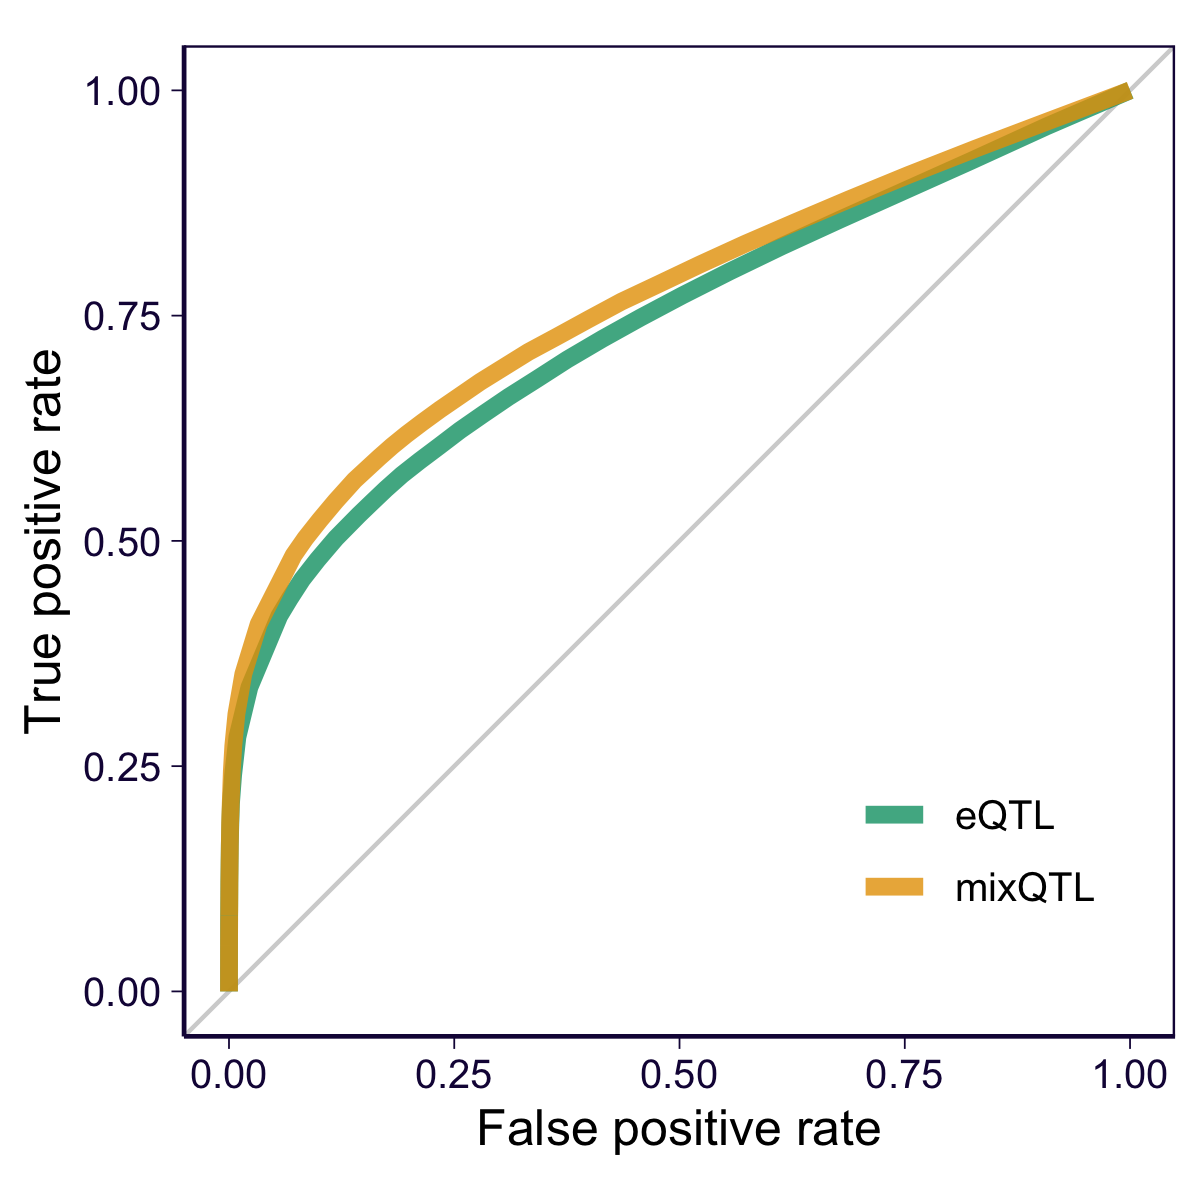
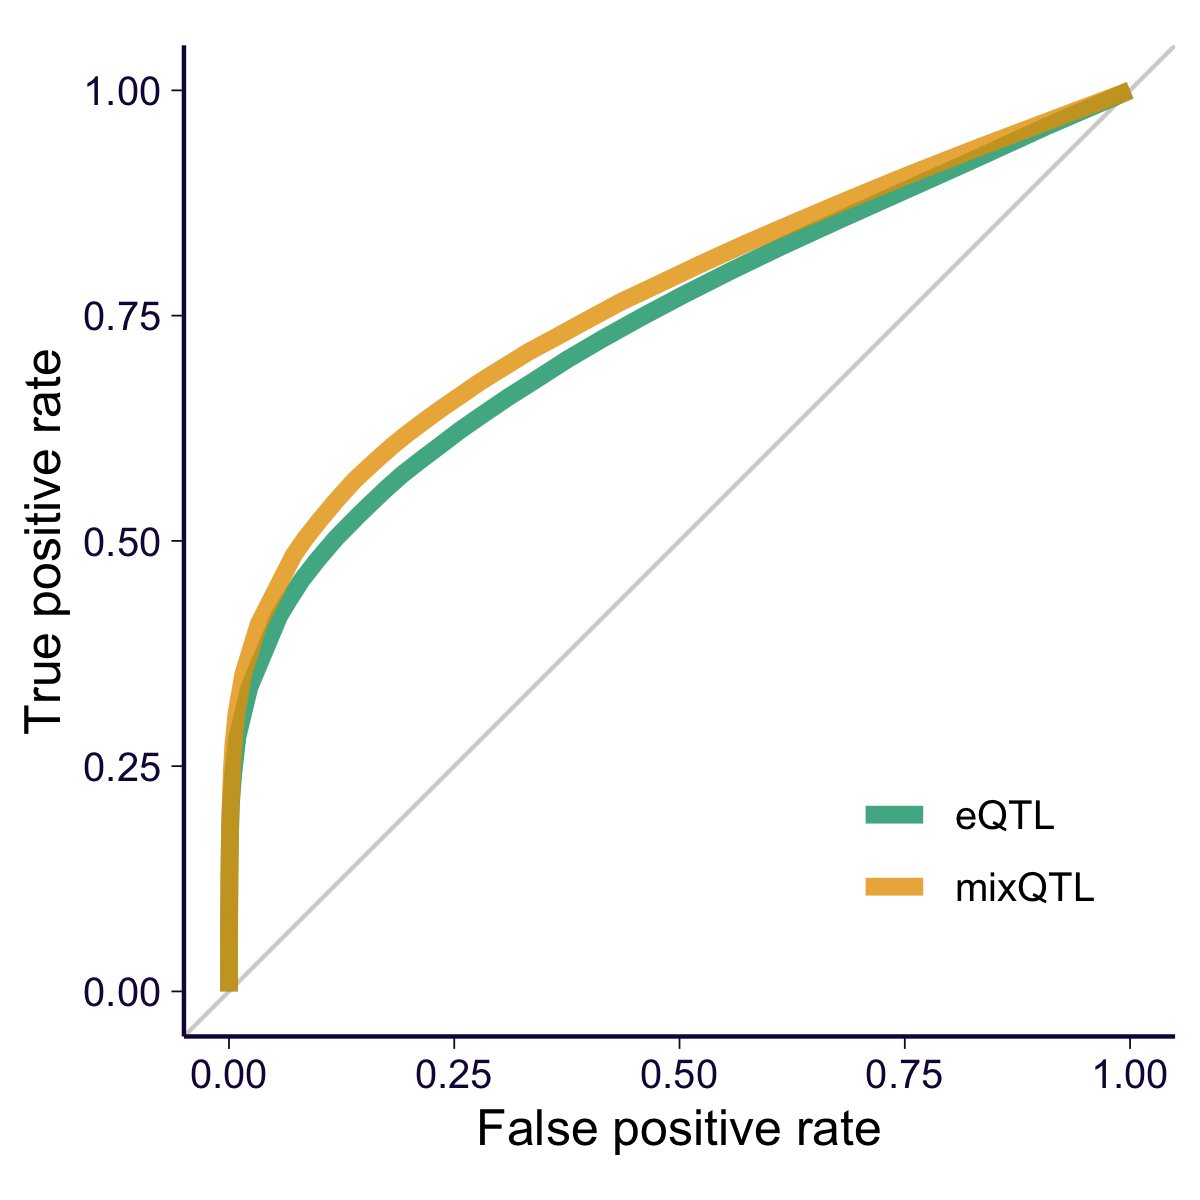
updated plots

Changed region(s): [[0.9558, 0.0308, 0.9867, 0.0617]]

diff --git a/docs/gtex_v8_mixqtl_eqtlgen.html b/docs/gtex_v8_mixqtl_eqtlgen.html
@@ -385,7 +385,7 @@ source(&#39;../code/rlib_analysis.R&#39;)
 datadir = &#39;/Users/yanyul/Desktop/mixqtl-pipeline-results/postprocess-mixqtl&#39;
 cbPalette &lt;- c(&#39;ascQTL&#39; = &quot;#999999&quot;, &#39;mixQTL&#39; = &quot;#E69F00&quot;, &#39;trcQTL&#39; = &quot;#56B4E9&quot;, &#39;eQTL&#39; = &quot;#009E73&quot;, &quot;#F0E442&quot;, &quot;#0072B2&quot;, &quot;#D55E00&quot;, &quot;#CC79A7&quot;)
 source(&#39;https://gist.githubusercontent.com/liangyy/43912b3ecab5d10c89f9d4b2669871c9/raw/8151c6fe70e3d4ee43d9ce340ecc0eb65172e616/my_ggplot_theme.R&#39;)
-th$panel.border = element_rect(colour = th$axis.line$colour)
+# th$panel.border = element_rect(colour = th$axis.line$colour)
 auto_cutoff = function(score, nbin = 100) {
   cutoffs = quantile(score, probs = 0:nbin/nbin)
   cutoffs
@@ -419,15 +419,23 @@ p$layers[[2]]$aes_params$size = 0.5
 p</code></pre>
 <p><img src="gtex_v8_mixqtl_eqtlgen_files/figure-html/qq-pos-1.png" width="672" /></p>
 </div>
+<div id="save-figure-for-paper" class="section level2">
+<h2><span class="header-section-number">1.3</span> Save figure for paper</h2>
+<pre class="r"><code>ggsave(&#39;../output/gtex-v8-pipeline-eqtl-matrix-with-gene-qc-eqtlgen-positive.png&#39;, p, height = 4, width = 4)
+collector = df
+for(m in c(&#39;ascQTL&#39;, &#39;trcQTL&#39;, &#39;mixQTL&#39;)) {
+  sub = df %&gt;% filter(method %in% c(m, &#39;eQTL&#39;))
+  p = my_qqplot(sub$pval, sub$method) 
+  p$layers &lt;- c(geom_abline(slope = 1, intercept = 0, color = &#39;lightgray&#39;), p$layers)
+  p = p + scale_color_manual(values = cbPalette)
+  p = p + theme(legend.position = c(0.7, 0.5), legend.title = element_blank()) + th + theme(aspect.ratio = 1) + ylab(expression(-log[10](p[observed]))) + xlab(expression(-log[10](p[expected])))
+  ggsave(paste0(&#39;../output/gtex-v8-pipeline-eqtl-matrix-with-gene-qc-eqtlgen-positive-&#39;, m, &#39;.png&#39;), p, height = 4, width = 4)
+}</code></pre>
+</div>
 <div id="chi2-plot-mixqtl-vs-eqtl" class="section level2">
-<h2><span class="header-section-number">1.3</span> <span class="math inline">\(\chi^2\)</span> plot: mixQTL vs eQTL</h2>
-<pre class="r"><code>dfplot = df %&gt;% mutate(chisq = qchisq(pval, df = 1, lower.tail = F)) %&gt;% select(-pval) %&gt;% filter(method %in% c(&#39;mixQTL&#39;, &#39;eQTL&#39;)) %&gt;% dcast(gene + variant ~ method, value.var = &#39;chisq&#39;)</code></pre>
-<pre><code>## Warning in dcast(., gene + variant ~ method, value.var = &quot;chisq&quot;): The dcast generic
-## in data.table has been passed a data.frame and will attempt to redirect to the
-## reshape2::dcast; please note that reshape2 is deprecated, and this redirection is now
-## deprecated as well. Please do this redirection yourself like reshape2::dcast(.). In the
-## next version, this warning will become an error.</code></pre>
-<pre class="r"><code>p = dfplot %&gt;% ggplot() + 
+<h2><span class="header-section-number">1.4</span> <span class="math inline">\(\chi^2\)</span> plot: mixQTL vs eQTL</h2>
+<pre class="r"><code>dfplot = df %&gt;% mutate(chisq = qchisq(pval, df = 1, lower.tail = F)) %&gt;% select(-pval) %&gt;% filter(method %in% c(&#39;mixQTL&#39;, &#39;eQTL&#39;)) %&gt;% dcast(gene + variant ~ method, value.var = &#39;chisq&#39;)
+p = dfplot %&gt;% ggplot() + 
   geom_point(aes(x = eQTL, y = mixQTL), alpha = 0.5) +
   geom_point(data = dfplot %&gt;% filter(gene %in% c(&#39;ENSG00000115607&#39;, &#39;ENSG00000145730&#39;)), aes(x = eQTL, y = mixQTL, color = gene)) + 
   th +
@@ -439,19 +447,6 @@ dfplot %&gt;% summarize(median_eqtl = median(eQTL), median_mixqtl = median(mixQT
 <pre><code>##   median_eqtl median_mixqtl    ratio
 ## 1    2.580397       3.56258 1.380632</code></pre>
 <pre class="r"><code>ggsave(paste0(&#39;../output/gtex-v8-pipeline-eqtl-matrix-with-gene-qc-eqtlgen-positive-chisq.png&#39;), p, height = 4, width = 4)</code></pre>
-</div>
-<div id="save-figure-for-paper" class="section level2">
-<h2><span class="header-section-number">1.4</span> Save figure for paper</h2>
-<pre class="r"><code>ggsave(&#39;../output/gtex-v8-pipeline-eqtl-matrix-with-gene-qc-eqtlgen-positive.png&#39;, p, height = 4, width = 4)
-collector = df
-for(m in c(&#39;ascQTL&#39;, &#39;trcQTL&#39;, &#39;mixQTL&#39;)) {
-  sub = df %&gt;% filter(method %in% c(m, &#39;eQTL&#39;))
-  p = my_qqplot(sub$pval, sub$method) 
-  p$layers &lt;- c(geom_abline(slope = 1, intercept = 0, color = &#39;lightgray&#39;), p$layers)
-  p = p + scale_color_manual(values = cbPalette)
-  p = p + theme(legend.position = c(0.7, 0.5), legend.title = element_blank()) + th + theme(aspect.ratio = 1) + ylab(expression(-log[10](p[observed]))) + xlab(expression(-log[10](p[expected])))
-  ggsave(paste0(&#39;../output/gtex-v8-pipeline-eqtl-matrix-with-gene-qc-eqtlgen-positive-&#39;, m, &#39;.png&#39;), p, height = 4, width = 4)
-}</code></pre>
 </div>
 </div>
 <div id="negative-set-eqtlgen-pvalue-0.5" class="section level1">
@@ -477,7 +472,7 @@ df = df %&gt;% filter(paste(gene, variant) %in% paste(df_clean$gene, df_clean$va
 <pre class="r"><code>df$pval[is.na(df$pval)] = runif(sum(is.na(df$pval)))
 p = my_qqplot(df$pval, df$method) 
 p = p + geom_abline(intercept = 0, slope = 1)
-p = p + scale_color_manual(values = cbPalette) + theme(legend.position = c(0.7, 0.5), legend.title = element_blank()) + th + theme(aspect.ratio = 1) + ylab(expression(-log[10](p[observed]))) + xlab(expression(-log[10](p[expected])))
+p = p + scale_color_manual(values = cbPalette) + theme(legend.position = c(0.3, 0.5), legend.title = element_blank()) + th + theme(aspect.ratio = 1) + ylab(expression(-log[10](p[observed]))) + xlab(expression(-log[10](p[expected])))
 p$layers[[2]]$aes_params$size = 0.5
 p</code></pre>
 <p><img src="gtex_v8_mixqtl_eqtlgen_files/figure-html/qq-neg-1.png" width="672" /></p>
@@ -491,7 +486,7 @@ for(m in c(&#39;ascQTL&#39;, &#39;trcQTL&#39;, &#39;mixQTL&#39;)) {
   p = my_qqplot(sub$pval, sub$method) 
   p$layers &lt;- c(geom_abline(slope = 1, intercept = 0, color = &#39;lightgray&#39;), p$layers)
   p = p + scale_color_manual(values = cbPalette)
-  p = p + theme(legend.position = c(0.7, 0.5), legend.title = element_blank()) + th + theme(aspect.ratio = 1) + ylab(expression(-log[10](p[observed]))) + xlab(expression(-log[10](p[expected])))
+  p = p + theme(legend.position = c(0.3, 0.5), legend.title = element_blank()) + th + theme(aspect.ratio = 1) + ylab(expression(-log[10](p[observed]))) + xlab(expression(-log[10](p[expected])))
   ggsave(paste0(&#39;../output/gtex-v8-pipeline-eqtl-matrix-with-gene-qc-eqtlgen-negative-&#39;, m, &#39;.png&#39;), p, height = 4, width = 4)
 }</code></pre>
 </div>
